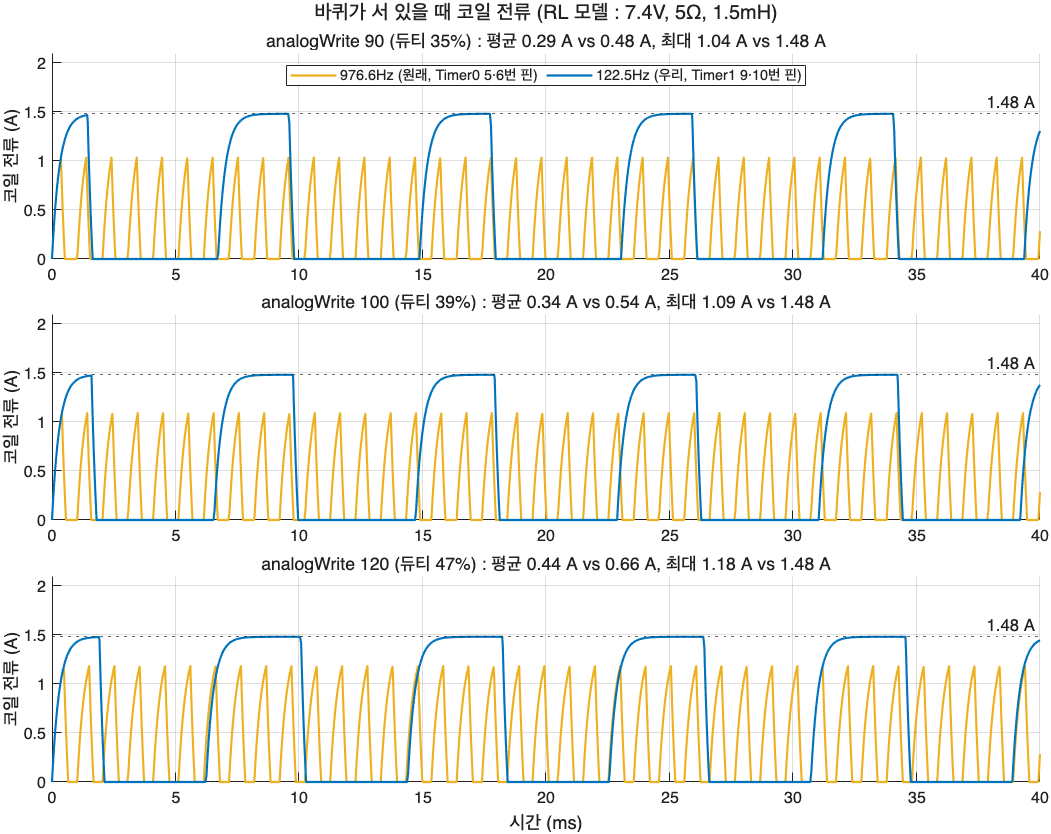
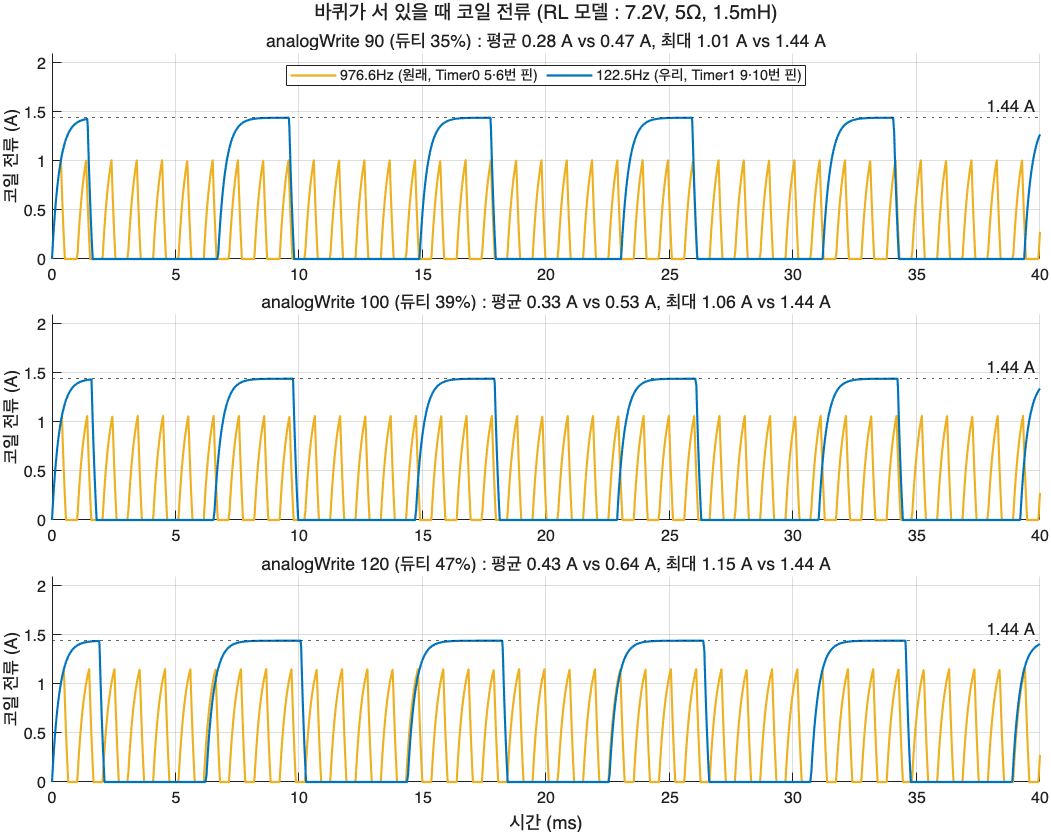
코일 전류 모델을 실제 배터리(1.2V 충전지 6개 = 7.2V)로 다시 계산 (% 와 결론은 같음, 전류 값만), NOTICE 에 MATLAB·Simulink (스크립트 MIT, 그래프·스코프 화면 CC BY, MATLAB 은 저장소에 없음·상표)

diff --git a/docs/matlab/pwm_power_simulink.m b/docs/matlab/pwm_power_simulink.m
@@ -9,7 +9,7 @@
 % 문서 그림 저장 : export_doc_figures.m 이 lang, exportFile 을 정하고 이 파일을 부름
 
 vals = [90 100 120];        % analogWrite 값. 바꿔서 다시 Run
-V  = 7.4;                   % 배터리 전압 (L298N 전압 강하는 무시). 실제 차에 맞게 고칠 것
+V  = 7.2;                   % 배터리 전압 : 1.2V 충전지 6개 (L298N 전압 강하는 무시)
 R  = 5;                     % 모터 코일 저항 (옴), 예시값
 Lh = 1.5e-3;                % 모터 코일 인덕턴스 (H), 예시값 -> 시간상수 L/R = 0.3ms
 tEnd = 0.04;                % 40ms

diff --git a/README.en.md b/README.en.md
@@ -346,23 +346,23 @@ PWM switches the motor power on and off very fast and sets the power by the frac
 
 ![Coil current at the same analogWrite values, original 976.6 Hz vs our 122.5 Hz (MATLAB · Simulink)](docs/img/pwm_coil_current.en.png)
 
-The same `analogWrite` value (90 · 100 · 120) drives a different current (= force) through the motor coil (Simulink model [`pwm_power_simulink.m`](docs/matlab/pwm_power_simulink.m); simple RL model with the wheel stopped, 7.4 V · 5 Ω · 1.5 mH):
+The same `analogWrite` value (90 · 100 · 120) drives a different current (= force) through the motor coil (Simulink model [`pwm_power_simulink.m`](docs/matlab/pwm_power_simulink.m); simple RL model with the wheel stopped, 7.2 V (six 1.2 V cells) · 5 Ω · 1.5 mH):
 
 | `analogWrite` | Duty | Original 976.6 Hz: mean / peak | Ours 122.5 Hz: mean / peak |
 |---|---|---|---|
-| 90 | 35 % | 0.29 A / 1.04 A (70 %) | **0.48 A / 1.48 A (100 %)** |
-| 100 | 39 % | 0.34 A / 1.09 A (74 %) | **0.54 A / 1.48 A (100 %)** |
-| 120 | 47 % | 0.44 A / 1.18 A (80 %) | **0.66 A / 1.48 A (100 %)** |
+| 90 | 35 % | 0.28 A / 1.01 A (70 %) | **0.47 A / 1.44 A (100 %)** |
+| 100 | 39 % | 0.33 A / 1.06 A (74 %) | **0.53 A / 1.44 A (100 %)** |
+| 120 | 47 % | 0.43 A / 1.15 A (80 %) | **0.64 A / 1.44 A (100 %)** |
 
 - **The yellow line (976.6 Hz) looks like a triangle wave, but it is not one.** It is not the timer counter; it is the **coil current**. When the pin switches on, the current rises along a curve, but it switches off after only 0.36–0.48 ms, so only the start of the curve (almost straight) is used; when it switches off, the L298N pulls the current out fast, so it falls in a straight line. A rising line plus a falling line looks like a triangle, but it is **current that is cut off every time before it fills up**.
-- **The blue line (122.5 Hz)** stays on 2.9–3.8 ms, so it reaches the top (1.48 A) every time and stays flat. The value only sets **how long** that full force lasts.
+- **The blue line (122.5 Hz)** stays on 2.9–3.8 ms, so it reaches the top (1.44 A) every time and stays flat. The value only sets **how long** that full force lasts.
 - So at the same value the mean force is about 1.5–1.7×, the peak force 1.25–1.4×. That is why, with the original wiring, 90 could not start the wheels and a 255 kick was needed. Full calculation and graphs: [`docs/PWM.en.md`](docs/PWM.en.md).
-- **Why the car only moved at high frequency when the PWM value was raised a lot**: at 976.6 Hz, raising `analogWrite` doesn't give force in proportion, because the current is **cut off every time before it fills up**. In the same simulation, matching the mean current of 90 at 122.5 Hz (0.48 A) takes **about 130** at 976.6 Hz, and the peak current is still only 94 % at 210; it reaches 100 % only at **255 (always on)**. That is why version C needed a **255 start kick** for 0.12 s on top of the 90 minimum (`MIN_PWM`) to get a stopped car moving. At 122.5 Hz even a small value fills up to 1.48 A every time, so a 170 kick for 0.06 s is enough.
+- **Why the car only moved at high frequency when the PWM value was raised a lot**: at 976.6 Hz, raising `analogWrite` doesn't give force in proportion, because the current is **cut off every time before it fills up**. In the same simulation, matching the mean current of 90 at 122.5 Hz (0.47 A) takes **about 130** at 976.6 Hz, and the peak current is still only 94 % at 210; it reaches 100 % only at **255 (always on)**. That is why version C needed a **255 start kick** for 0.12 s on top of the 90 minimum (`MIN_PWM`) to get a stopped car moving. At 122.5 Hz even a small value fills up to 1.44 A every time, so a 170 kick for 0.06 s is enough.
 
 | | High frequency (version C) | Low frequency (version E) |
 |---|---|---|
 | Frequency | UNO default `analogWrite`: pins 5 and 6 at **976.6 Hz** (1.024 ms period) | Timer1 set directly: pins 9 and 10 at **122.5 Hz** (8.16 ms period) |
-| Low-speed force | Weak. The on-time (0.36 ms at 90) is short, so it switches off before the coil current fills up → at 90: mean 0.29 A, peak 70 % | Strong. The on-time (2.9 ms at 90) is long, so it fills up every time → at 90: mean 0.48 A, peak 100 % |
+| Low-speed force | Weak. The on-time (0.36 ms at 90) is short, so it switches off before the coil current fills up → at 90: mean 0.28 A, peak 70 % | Strong. The on-time (2.9 ms at 90) is long, so it fills up every time → at 90: mean 0.47 A, peak 100 % |
 | Consequence | Minimum `MIN_PWM` 90 + start kick 255 (0.12 s) to force a start → **jerky** in manual, and at low speed only a whine with no torque | Kick cut to **170 for 0.06 s** → smooth starts and slow driving, easier precise control |
 | Sound | A high **whine** at low speed (976.6 Hz is right where the ear is most sensitive; the wheel doesn't turn, only the coil vibrates) | **Quieter** (observed 2026-11-16: the wheel actually turns, so the whine is gone; 122 Hz is a low tone the ear hears less) |
 | Downside | None | The servo can't move while driving (Timer1 drives the motors; the servo only needs to face forward once at startup) |

diff --git a/NOTICE.md b/NOTICE.md
@@ -9,8 +9,8 @@
 
 | 무엇 / What | 라이선스 / License |
 |---|---|
-| 소스 코드 : Arduino 스케치 (`arduino/`), ESP32-CAM 펌웨어·웹 화면 (`esp32/`), 앱 (`apps/`), 시험·도구 / Source code: Arduino sketches, ESP32-CAM firmware and web page, apps, tests and tools | **MIT** ([`LICENSE`](LICENSE)) |
-| 사진·영상·그림·주행 로그·문서 (`docs/`, README, 릴리스의 사진·영상) / Photos, videos, figures, drive logs, documentation | **CC BY 4.0** — 출처 표시 : "4wd-car Team 2 Gulno" / Attribution: "4wd-car Team 2 Gulno" |
+| 소스 코드 : Arduino 스케치 (`arduino/`), ESP32-CAM 펌웨어·웹 화면 (`esp32/`), 앱 (`apps/`), MATLAB·Simulink 스크립트 (`docs/matlab/`), 시험·도구 / Source code: Arduino sketches, ESP32-CAM firmware and web page, apps, MATLAB · Simulink scripts, tests and tools | **MIT** ([`LICENSE`](LICENSE)) |
+| 사진·영상·그림(MATLAB·Simulink 로 그린 그래프·스코프 화면 포함)·주행 로그·문서 (`docs/`, README, 릴리스의 사진·영상) / Photos, videos, figures (including graphs and scope screenshots made with MATLAB · Simulink), drive logs, documentation | **CC BY 4.0** — 출처 표시 : "4wd-car Team 2 Gulno" / Attribution: "4wd-car Team 2 Gulno" |
 
 - 누구나 자유롭게 쓰고, 고치고, 다시 배포하고, 상업적으로도 쓸 수 있습니다. 코드는 저작권·허가 문구(`LICENSE`)를, 사진·문서는 출처를 남겨 주세요.
 - Anyone may use, modify, redistribute, and use commercially. Keep the copyright and permission notice (`LICENSE`) for code, and give attribution for photos and documents.
@@ -34,6 +34,7 @@ Not stored in this repository (downloaded at build time) unless noted, or linked
 | AndroidX, Kotlin standard library | 안드로이드 앱 / Android app | Apache-2.0 |
 | SwiftUI, CoreBluetooth (Apple SDK) | 아이폰·맥 앱 / iOS and macOS app | Apple SDK license |
 | Web Bluetooth / Web Serial (브라우저 기능 / browser APIs) | `apps/web/index.html` | — |
+| MATLAB, Simulink (MathWorks) | `docs/matlab/` 스크립트를 돌리고 문서 그래프를 그리는 데 씀. 저장소·릴리스에 들어 있지 않음, 돌리려면 각자의 MATLAB·Simulink 라이선스 필요 / used to run `docs/matlab/` and draw the document graphs; not included, running them needs your own MATLAB · Simulink license | MathWorks 상용 라이선스 / commercial |
 
 - **LGPL 부분 / LGPL parts** : 릴리스 펌웨어(`4wd-car-esp32cam-v1.0-*.bin`)에는 LGPL-2.1 인 arduino-esp32 가 링크되어 있습니다. 이 저장소에 펌웨어 소스와 빌드 설정(`esp32/esp32cam_line/platformio.ini`)이 모두 있어서, 누구나 그 라이브러리를 바꿔 다시 빌드·링크할 수 있습니다 ([`docs/ESP32_UPLOAD.md`](docs/ESP32_UPLOAD.md) 방법 B). 라이브러리 소스 : https://github.com/espressif/arduino-esp32 , https://github.com/pioarduino/platform-espressif32
   The release firmware links arduino-esp32 (LGPL-2.1). This repository contains the complete firmware source and build configuration, so anyone can modify those libraries and rebuild/relink (see [`docs/ESP32_UPLOAD.en.md`](docs/ESP32_UPLOAD.en.md), method B). Library sources at the links above.
@@ -43,5 +44,5 @@ Not stored in this repository (downloaded at build time) unless noted, or linked
 
 - **수업 교안** `minicar_lecture_deck_all_teams_v5.pdf` 는 수업에서 받은 자료로 저작권이 작성자에게 있어 **이 저장소에 넣지 않습니다** (2026-11-18 저장소에서 뺌, 예전 커밋 기록에는 남아 있음). 문서에서 "교안 n쪽" 은 그 자료를 가리킵니다.
   The **course lecture deck** belongs to its authors and is **not distributed here** (removed from the repository on 2026-11-18; it remains in older commits). "Lecture deck p. n" in the docs refers to it.
-- Arduino, Espressif, ESP32, Eduino, Apple, iPhone, Android, Google Chrome, Bluetooth 등은 각 회사의 상표입니다. 이 프로젝트는 그 회사들과 관계가 없습니다.
-  Arduino, Espressif, ESP32, Eduino, Apple, iPhone, Android, Google Chrome, Bluetooth and other names are trademarks of their owners. This project is not affiliated with them.
+- Arduino, Espressif, ESP32, Eduino, Apple, iPhone, Android, Google Chrome, Bluetooth, MATLAB, Simulink, MathWorks 등은 각 회사의 상표입니다. 이 프로젝트는 그 회사들과 관계가 없습니다.
+  Arduino, Espressif, ESP32, Eduino, Apple, iPhone, Android, Google Chrome, Bluetooth, MATLAB, Simulink, MathWorks and other names are trademarks of their owners. This project is not affiliated with them.

diff --git a/docs/PWM.en.md b/docs/PWM.en.md
@@ -74,27 +74,27 @@ Doubling the prescaler makes each step twice as slow, so the frequency **halves*
 
 | `analogWrite` | Duty | Original 976.6 Hz: mean / peak | Ours 122.5 Hz: mean / peak |
 |---|---|---|---|
-| 90 | 35 % | 0.29 A (20 %) / 1.04 A (70 %) | **0.48 A (33 %) / 1.48 A (100 %)** |
-| 100 | 39 % | 0.34 A (23 %) / 1.09 A (74 %) | **0.54 A (37 %) / 1.48 A (100 %)** |
-| 120 | 47 % | 0.44 A (30 %) / 1.18 A (80 %) | **0.66 A (45 %) / 1.48 A (100 %)** |
+| 90 | 35 % | 0.28 A (20 %) / 1.01 A (70 %) | **0.47 A (33 %) / 1.44 A (100 %)** |
+| 100 | 39 % | 0.33 A (23 %) / 1.06 A (74 %) | **0.53 A (37 %) / 1.44 A (100 %)** |
+| 120 | 47 % | 0.43 A (30 %) / 1.15 A (80 %) | **0.64 A (45 %) / 1.44 A (100 %)** |
 
-(Brackets = share of 1.48 A, the current if always on. Simulink model [`matlab/pwm_power_simulink.m`](matlab/pwm_power_simulink.m): RL model with the wheel stopped (no back-EMF), 7.4 V · 5 Ω · 1.5 mH, on = +V, off = −V through the L298N diodes. These are example values, so the real car's numbers can differ; the difference between the two frequencies goes the same way.)
+(Brackets = share of 1.44 A, the current if always on. Simulink model [`matlab/pwm_power_simulink.m`](matlab/pwm_power_simulink.m): RL model with the wheel stopped (no back-EMF), 7.2 V (six 1.2 V cells) · 5 Ω · 1.5 mH, on = +V, off = −V through the L298N diodes. These are example values, so the real car's numbers can differ; the difference between the two frequencies goes the same way.)
 
 - **The yellow line (976.6 Hz) looks like a triangle wave, but it is not one.** It is the **coil current**, not the counter. It rises along a curve but switches off after only 0.36–0.48 ms, so only the start of the curve (almost straight) is used; when off, the L298N pulls the current out fast, so it drops in a straight line. It only looks like a triangle; it is **current cut off every time before it fills up**.
 - At 976.6 Hz the time spent pulling the current out is a big share of each period, so a 35 % duty gives only 20 % mean current. At 122.5 Hz that loss is small, so it gives 33 %, close to the duty.
-- **The blue line (122.5 Hz)** reaches 1.48 A every time and stays flat. Raising the value makes it **wider**, not higher.
+- **The blue line (122.5 Hz)** reaches 1.44 A every time and stays flat. Raising the value makes it **wider**, not higher.
 
 **Why the car only moved at high frequency when the PWM value was raised a lot**: the same model with higher values (only `vals` changed in `pwm_power_simulink.m`):
 
 | `analogWrite` | 976.6 Hz: mean / peak | 122.5 Hz: mean / peak |
 |---|---|---|
-| 130 | 0.49 A / 1.22 A (82 %) | 0.72 A / 1.48 A (100 %) |
-| 150 | 0.60 A / 1.28 A (87 %) | 0.83 A / 1.48 A (100 %) |
-| 180 | 0.77 A / 1.35 A (91 %) | 1.01 A / 1.48 A (100 %) |
-| 210 | 0.96 A / 1.40 A (94 %) | 1.18 A / 1.48 A (100 %) |
-| 255 | 1.48 A / 1.48 A (100 %) | 1.48 A / 1.48 A (100 %) |
+| 130 | 0.48 A / 1.19 A (82 %) | 0.70 A / 1.44 A (100 %) |
+| 150 | 0.58 A / 1.25 A (87 %) | 0.81 A / 1.44 A (100 %) |
+| 180 | 0.74 A / 1.31 A (91 %) | 0.98 A / 1.44 A (100 %) |
+| 210 | 0.93 A / 1.36 A (94 %) | 1.15 A / 1.44 A (100 %) |
+| 255 | 1.44 A / 1.44 A (100 %) | 1.44 A / 1.44 A (100 %) |
 
-- Matching the mean current of 90 at 122.5 Hz (0.48 A) takes **about 130** at 976.6 Hz.
+- Matching the mean current of 90 at 122.5 Hz (0.47 A) takes **about 130** at 976.6 Hz.
 - At 976.6 Hz the peak current is still 94 % at 210 and reaches 100 % only at **255 (always on)**. That is why version C needed a **255 kick** to start a stopped car.
 
 As seen on the Simulink scope (top to bottom 90 / 100 / 120, yellow 976.6 Hz, blue 122.5 Hz):

diff --git a/docs/REPORT_20261116.en.md b/docs/REPORT_20261116.en.md
@@ -39,7 +39,7 @@
 
 Lesson: how PWM frequency relates to torque (compared with VVVF trains and engine torque vs horsepower). The goal is precise control, not top speed, so we fixed the low frequency.
 
-Calculation and graphs (added 2026-11-18): frequency = 16,000,000 ÷ (prescaler × steps per period); Timer1 triangle, prescaler 256 → 16,000,000 ÷ (256 × 510) = 122.5 Hz. At the same 30 % duty each pulse lasts 0.31 ms (Timer0 default) → 2.45 ms (Timer1). Checked with MATLAB and Simulink: [`PWM.en.md`](PWM.en.md) (calculation, model). Coil current (Simulink RL model): at analogWrite 90 the mean is 0.29 A (976.6 Hz) vs 0.48 A (122.5 Hz), peak 70 % vs 100 %. Matching that mean at 976.6 Hz takes about 130, and the peak reaches 100 % only at 255 → why version C needed the 255 kick (model).
+Calculation and graphs (added 2026-11-18): frequency = 16,000,000 ÷ (prescaler × steps per period); Timer1 triangle, prescaler 256 → 16,000,000 ÷ (256 × 510) = 122.5 Hz. At the same 30 % duty each pulse lasts 0.31 ms (Timer0 default) → 2.45 ms (Timer1). Checked with MATLAB and Simulink: [`PWM.en.md`](PWM.en.md) (calculation, model). Coil current (Simulink RL model): at analogWrite 90 the mean is 0.28 A (976.6 Hz) vs 0.47 A (122.5 Hz), peak 70 % vs 100 %. Matching that mean at 976.6 Hz takes about 130, and the peak reaches 100 % only at 255 → why version C needed the 255 kick (model).
 
 ## 2. Camera principle change: signals only
 

diff --git a/docs/REPORT_20261116.md b/docs/REPORT_20261116.md
@@ -39,7 +39,7 @@
 
 배운 것 : PWM 주파수와 토크의 관계 (VVVF 전동차·엔진 토크/마력 비유). 빨리 달리는 게 목적이 아니라 정밀 제어라서 저주파로 고정.
 
-계산과 그래프 (2026-11-18 추가) : 주파수 = 16,000,000 ÷ (분주 × 한 주기 칸 수), Timer1 삼각파 분주 256 → 16,000,000 ÷ (256 × 510) = 122.5Hz. 같은 듀티 30% 에서 한 번 켜지는 길이 0.31ms (Timer0 기본) → 2.45ms (Timer1). MATLAB·Simulink 로 확인 : [`PWM.md`](PWM.md) (계산·모델). 코일 전류 (Simulink RL 모델) : 같은 analogWrite 90 에서 평균 0.29A (976.6Hz) vs 0.48A (122.5Hz), 순간 70% vs 100%. 976.6Hz 로 같은 평균을 내려면 약 130, 순간 100% 는 255 에서만 → 버전 C 의 킥 255 가 필요했던 이유 (모델).
+계산과 그래프 (2026-11-18 추가) : 주파수 = 16,000,000 ÷ (분주 × 한 주기 칸 수), Timer1 삼각파 분주 256 → 16,000,000 ÷ (256 × 510) = 122.5Hz. 같은 듀티 30% 에서 한 번 켜지는 길이 0.31ms (Timer0 기본) → 2.45ms (Timer1). MATLAB·Simulink 로 확인 : [`PWM.md`](PWM.md) (계산·모델). 코일 전류 (Simulink RL 모델) : 같은 analogWrite 90 에서 평균 0.28A (976.6Hz) vs 0.47A (122.5Hz), 순간 70% vs 100%. 976.6Hz 로 같은 평균을 내려면 약 130, 순간 100% 는 255 에서만 → 버전 C 의 킥 255 가 필요했던 이유 (모델).
 
 ## 2. 카메라 원칙 변경 : 신호등·표지판만
 
